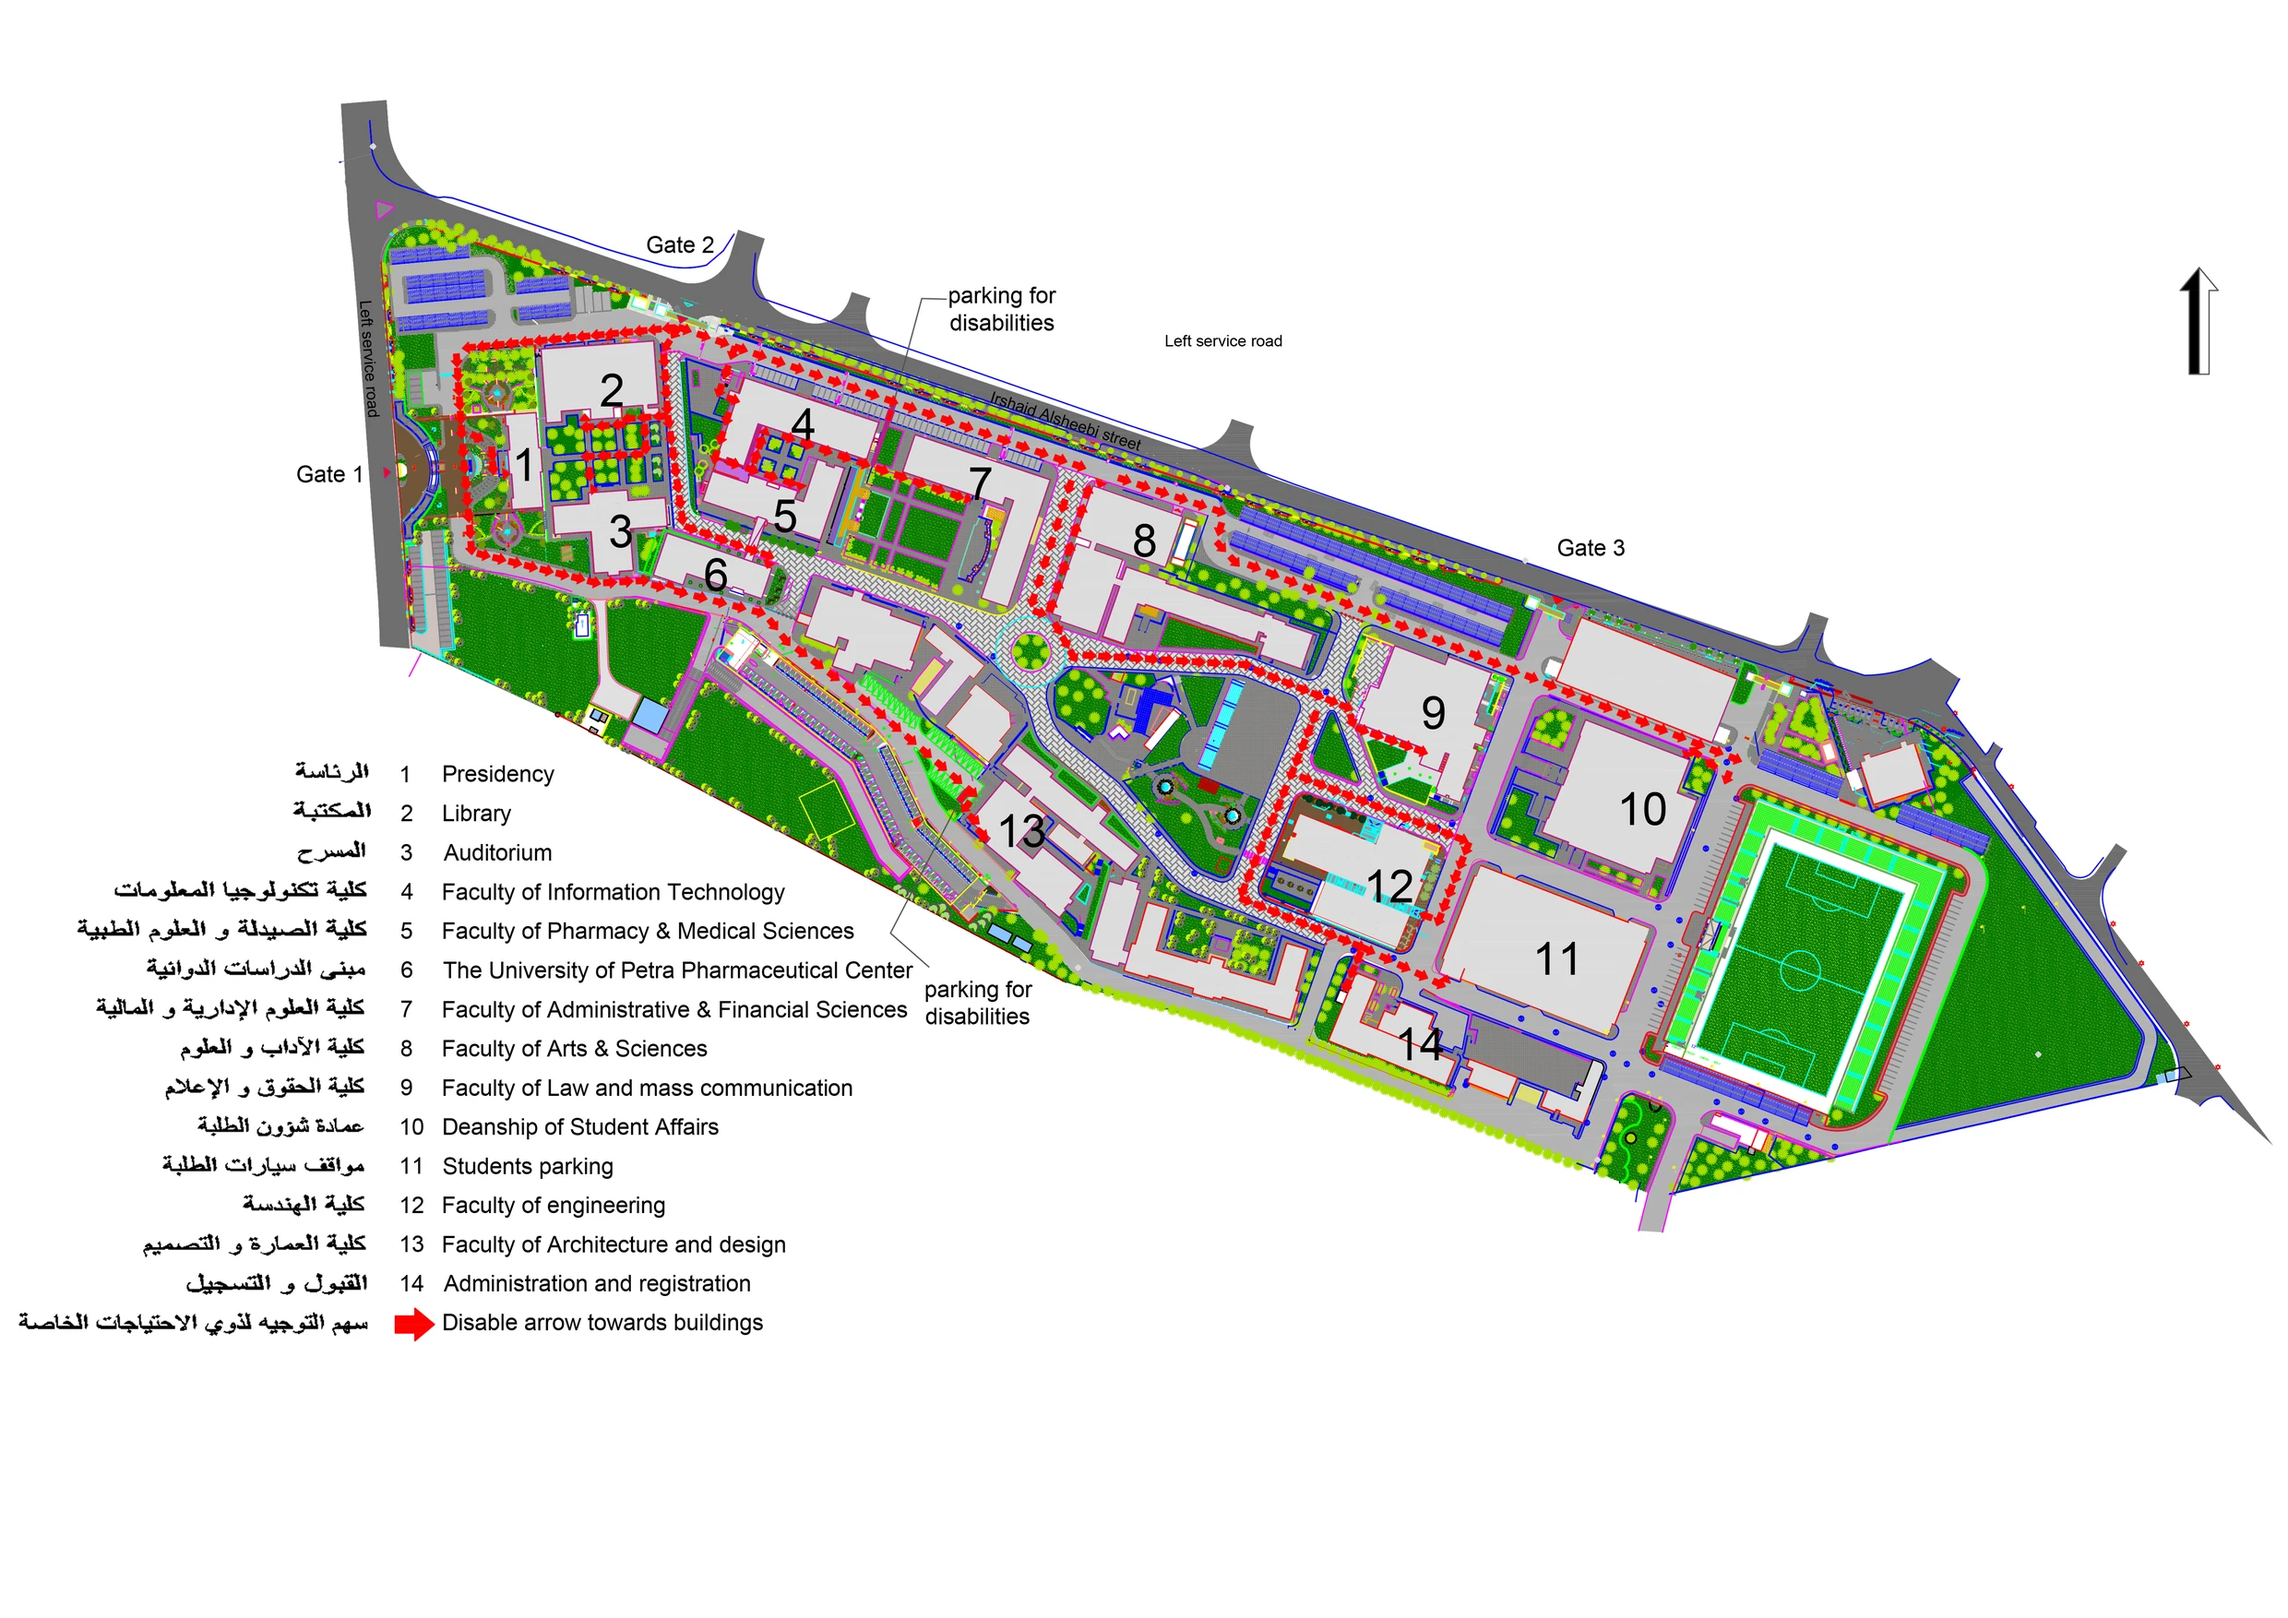
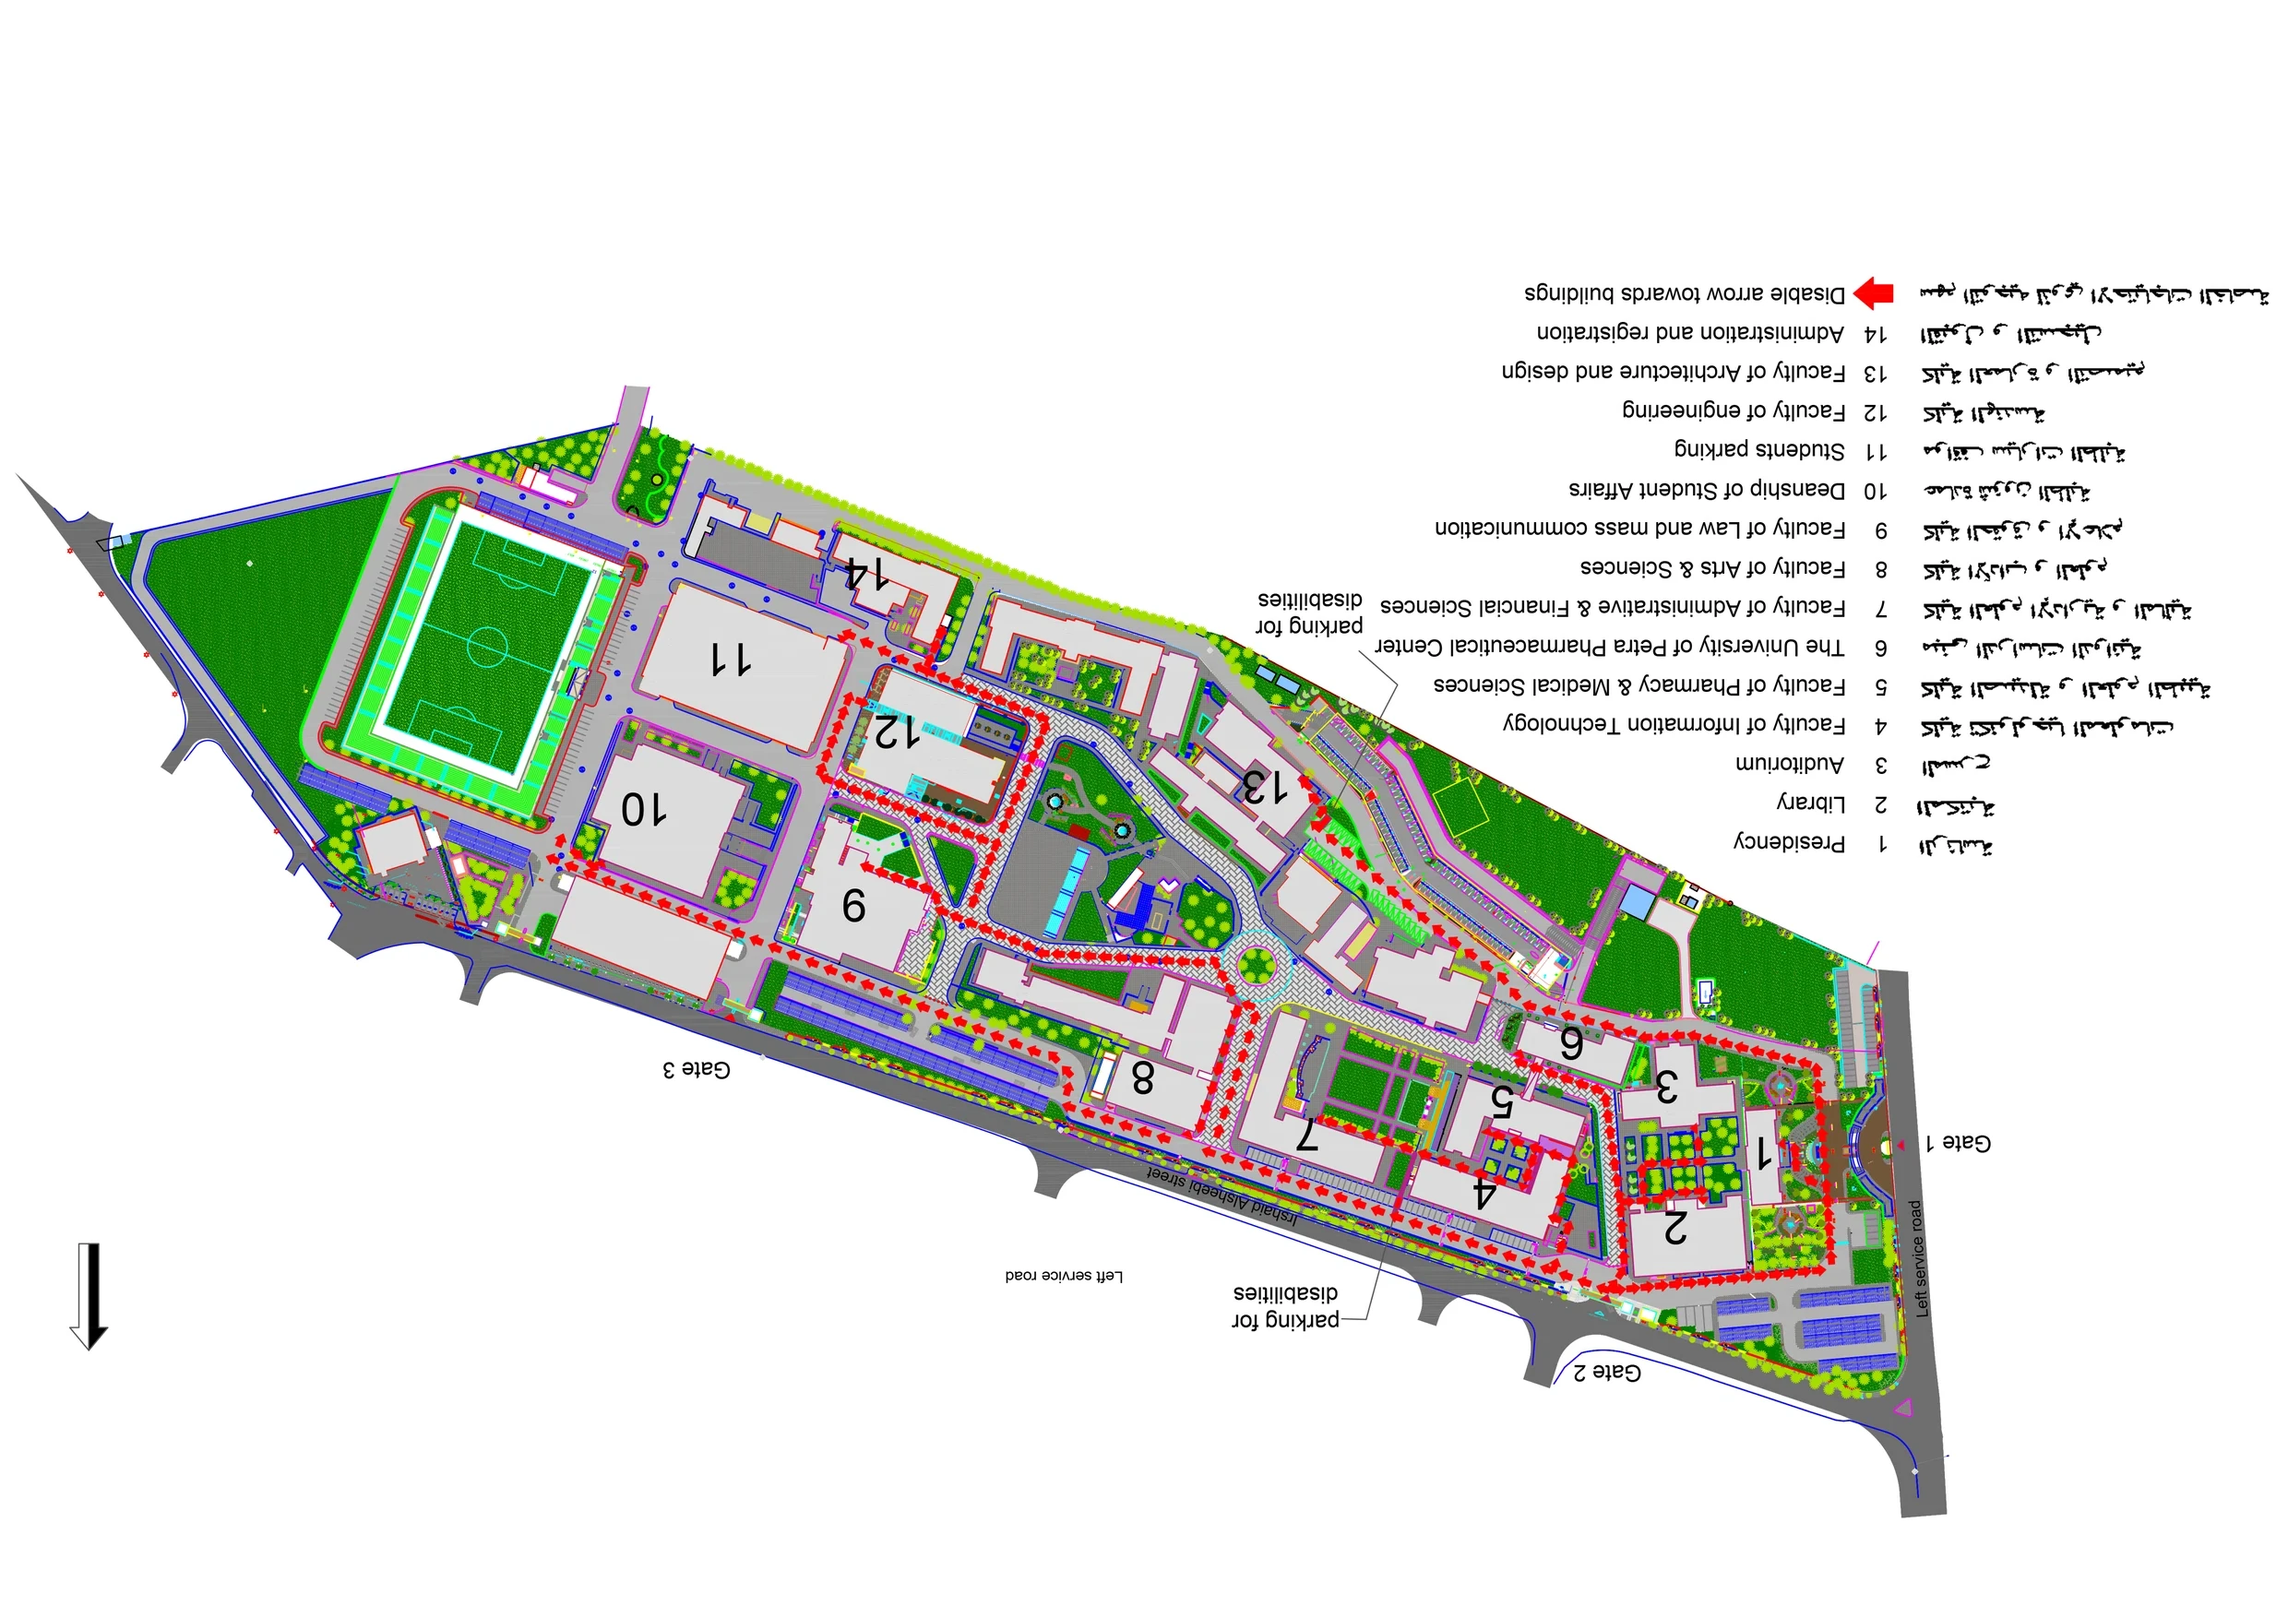
Disability route page: plan turned 180° to match the campus map (north down, Gate 1 on the right); its printed words written again upright in Arabic
Claude-Session: https://claude.ai/code/session_01FP6uu8p4J4R8P8jRUofCUd

diff --git a/assets/access.js b/assets/access.js
@@ -51,6 +51,10 @@
   function svg(route, opt = {}) {
     const poly = pts => pts.map(p => p.join(',')).join(' ');
     let s = `<g style="--k:${K}">${A.mask ? `<polygon class="ac-mask" points="${A.mask.map(p => p.join(',')).join(' ')}"/>` : ''}`;
+    // the plan is turned 180° (north down, like «خريطة الحرم»): its printed words would read upside down, so they are covered and written again upright
+    (A.texts || []).forEach(x => { const [cx, cy] = x.c;
+      s += `<g transform="rotate(${x.a} ${cx} ${cy})"><rect class="ac-mask ${x.dark ? 'dk' : ''}" x="${cx - x.w / 2}" y="${cy - x.h / 2}" width="${x.w}" height="${x.h}" rx="4"/>`
+        + (x.t ? `<text class="ac-tx ${x.dark ? 'dk' : ''}" x="${cx}" y="${cy}" style="font-size:${Math.min(x.h * .62, 16 * K / 1.6)}px">${esc(x.t)}</text>` : '') + '</g>'; });
     if (st.L.route || opt.print) A.edges.forEach(e => {
       const p = poly(e[2]);
       s += e[3] === 'link' ? `<polyline class="ac-link" points="${p}"/>` : `<polyline class="ac-case" points="${p}"/><polyline class="ac-net" points="${p}"/>`;
@@ -124,7 +128,7 @@
         <section class="ac-mapc"><div class="ac-map" id="ac-map" tabindex="0" aria-label="مخطط الحرم مع مسار ذوي الإعاقة">
             <div id="ac-in" class="${st.L.dim ? 'dim' : ''}"><img src="${A.image}" alt="مخطط الحرم الجامعي – مسار ذوي الاحتياجات الخاصة" width="${W}" height="${H}" draggable="false"><svg viewBox="0 0 ${W} ${H}" id="ac-svg">${svg(r)}</svg></div>
             <div class="ac-zoom no-print"><button type="button" data-z="in" title="تكبير" aria-label="تكبير"><i class="bi bi-plus-lg"></i></button><button type="button" data-z="out" title="تصغير" aria-label="تصغير"><i class="bi bi-dash-lg"></i></button><button type="button" data-z="fit" title="المخطط كاملاً" aria-label="المخطط كاملاً"><i class="bi bi-arrows-fullscreen"></i></button></div>
-            <div class="ac-north" title="الشمال"><i class="bi bi-arrow-up"></i><span>ش</span></div>
+            <div class="ac-north" title="الشمال"><i class="bi ${A.rotated === 180 ? 'bi-arrow-down' : 'bi-arrow-up'}"></i><span>ش</span></div>
             <div class="ac-tools no-print"><button type="button" id="ac-fs" title="ملء الشاشة" aria-label="ملء الشاشة"><i class="bi ${document.fullscreenElement ? 'bi-fullscreen-exit' : 'bi-fullscreen'}"></i></button><button type="button" id="ac-big" class="${st.L.big ? 'on' : ''}" title="خط أكبر" aria-label="خط أكبر"><i class="bi bi-type"></i></button><button type="button" id="ac-hc" class="${st.L.hc ? 'on' : ''}" title="تباين عالٍ" aria-label="تباين عالٍ"><i class="bi bi-circle-half"></i></button></div>
 </div>
           <div class="ac-legend">${[['ac-l-net', 'مسار ذوي الإعاقة (من المخطط)'], ['ac-l-route', 'مسارك'], ['ac-l-link', 'وصلة إلى المسار (ليست في المخطط)'], ['ac-l-ent', 'مدخل ميسّر'], ['ac-l-park', 'موقف ذوي الإعاقة'], ['ac-l-gate', 'بوابة'], ['ac-l-b', 'رقم المبنى في المخطط']].map(([c, t]) => `<span><i class="${c}"></i>${t}</span>`).join('')}</div>
@@ -252,7 +256,7 @@
     .ac-bn { width: 30px; height: 30px; border-radius: 50%; background: #901d23; color: #fff; font-weight: 700; display: flex; align-items: center; justify-content: center; }
     .ac-bt b { display: block; font-size: .92rem; } .ac-bt small { font-size: .76rem; } .ac-bs { text-align: end; font-size: .8rem; } .ac-bs small { display: block; }
     .ac-ok { color: #1d4ed8; font-weight: 700; } .ac-no { color: #6b7280; }
-    .ac-mask { fill: #fff; }
+    .ac-mask { fill: #fff; } .ac-tx { fill: #111; font-weight: 700; text-anchor: middle; dominant-baseline: central; } .ac-mask.dk { fill: #6b6b6b; } .ac-tx.dk { fill: #fff; }
     .ac-nm rect { fill: rgba(255,255,255,.95); stroke: #901d23; stroke-width: 1.2; } .ac-nm text { fill: #111 !important; font-size: 11px !important; font-weight: 700; } .ac-b.to .ac-nm rect { stroke: #15803d; fill: #f0fdf4; } .ac-b.hl .ac-nm rect { stroke: #f59e0b; }
     .ac-b.hl circle { fill: #f59e0b; stroke: #fff; stroke-width: 4; } .ac-b.hl { filter: drop-shadow(0 0 6px rgba(245,158,11,.9)); }
     .ac-tools { position: absolute; bottom: 10px; left: 10px; display: flex; gap: 6px; } .ac-tools button { width: 38px; height: 38px; border-radius: 10px; border: 1px solid #d9d3c3; background: #fff; box-shadow: 0 2px 6px rgba(0,0,0,.1); } .ac-tools button.on { background: #1d4ed8; color: #fff; border-color: #1d4ed8; }

diff --git a/sw.js b/sw.js
@@ -2,7 +2,7 @@
    fetched fresh when online and the last copy is used when offline or when the network is too slow; libraries,
    fonts and photos are kept once used. VERSION changes with every release of the site (the same ?v= the pages use),
    which replaces the kept pages and scripts. */
-const VERSION = '202611201000';  // advising: one clear table style
+const VERSION = '202611201100';  // advising: one clear table style
 const CORE = 'uop-core-' + VERSION, DATA = 'uop-data', LIBS = 'uop-libs', ASSETS = 'uop-assets';
 const PAGES = ['./', 'index.html', 'directory.html', 'timetable.html', 'calendar.html', 'now.html', 'notes.html', 'changes.html', 'makeup.html', 'load.html',
   'phones.html', 'together.html', 'instructor.html', 'planner.html', 'room.html', 'office-hours.html', 'usage.html', 'screen.html', 'screen-posts.html', 'campus.html', 'access.html', 'trends.html', 'org.html', 'plans.html', 'advisory.html', 'advising.html',

diff --git a/access.html b/access.html
@@ -218,7 +218,7 @@
 <script src="https://cdn.jsdelivr.net/npm/bootstrap@5.3.3/dist/js/bootstrap.bundle.min.js"></script>
 <script src="https://cdn.jsdelivr.net/npm/qrcode-generator@1.4.4/qrcode.js"></script>
 <script src="assets/common.js?v=202611072100"></script>
-<script src="assets/access.js?v=202611200900"></script>
+<script src="assets/access.js?v=202611201100"></script>
 <script src="assets/report.js?v=202611070300"></script>
 <script src="assets/share.js?v=202611020300"></script>
 <script src="assets/site.js?v=202611131200"></script>

diff --git a/scripts/make_pages.py b/scripts/make_pages.py
@@ -98,7 +98,7 @@ PAGES = {
         hero="خريطة الحرم", sub="مخطط الجامعة الرسمي حيّاً — ما يجري الآن في كل مبنى، ومن فيه، وأين تجد أي شخص أو قاعة أو مقرر",
         search="ابحث على الخريطة…", about="المخطط من الموقع الرسمي للجامعة؛ ما على المباني محسوب من الجدول الدراسي ودليل الموظفين وجدول الامتحانات، ويتحدّث وحده."),
     "access.html": dict(
-        title="مسار ذوي الإعاقة", short="مسار ذوي الإعاقة", what="مسار ذوي الإعاقة", app="ac-app", js="access.js", v="202611200900",
+        title="مسار ذوي الإعاقة", short="مسار ذوي الإعاقة", what="مسار ذوي الإعاقة", app="ac-app", js="access.js", v="202611201100",
         desc="مسار ذوي الإعاقة المعتمد في حرم جامعة البترا: من البوابات ومواقف ذوي الإعاقة إلى المدخل الميسّر لكل مبنى، مع تخطيط أقصر مسار لذوي الإعاقة وطوله ووقته.",
         hero="مسار ذوي الإعاقة", sub="مسار ذوي الإعاقة كما رسمته الجامعة على مخطط الحرم — خطّط طريقك إلى المدخل الميسّر لأي مبنى",
         search="ابحث عن مبنى…", about="المسار والمداخل والمواقف من مخطط الجامعة لمسار ذوي الاحتياجات الخاصة؛ المسافات تقديرية."),
